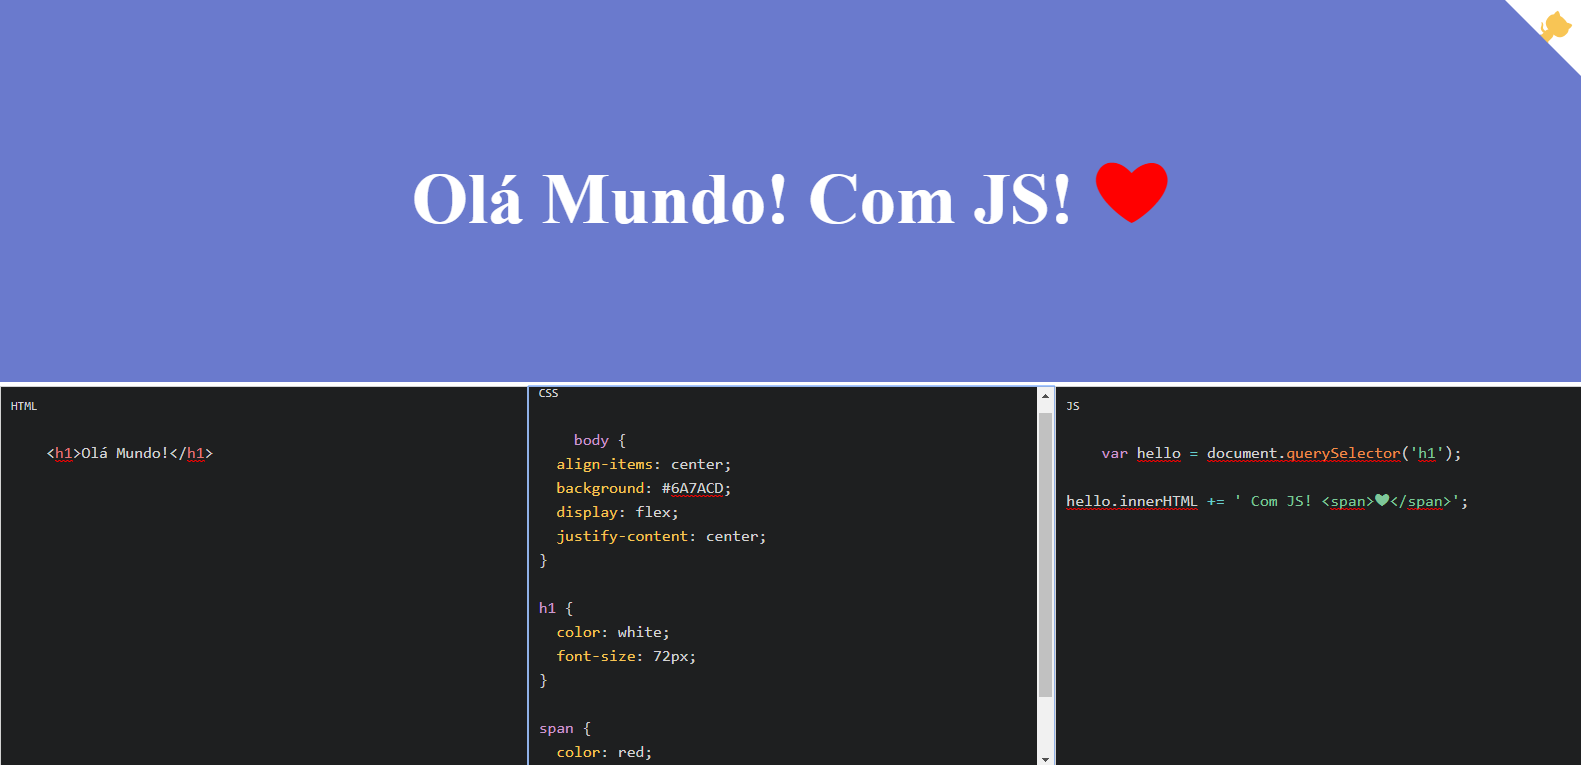
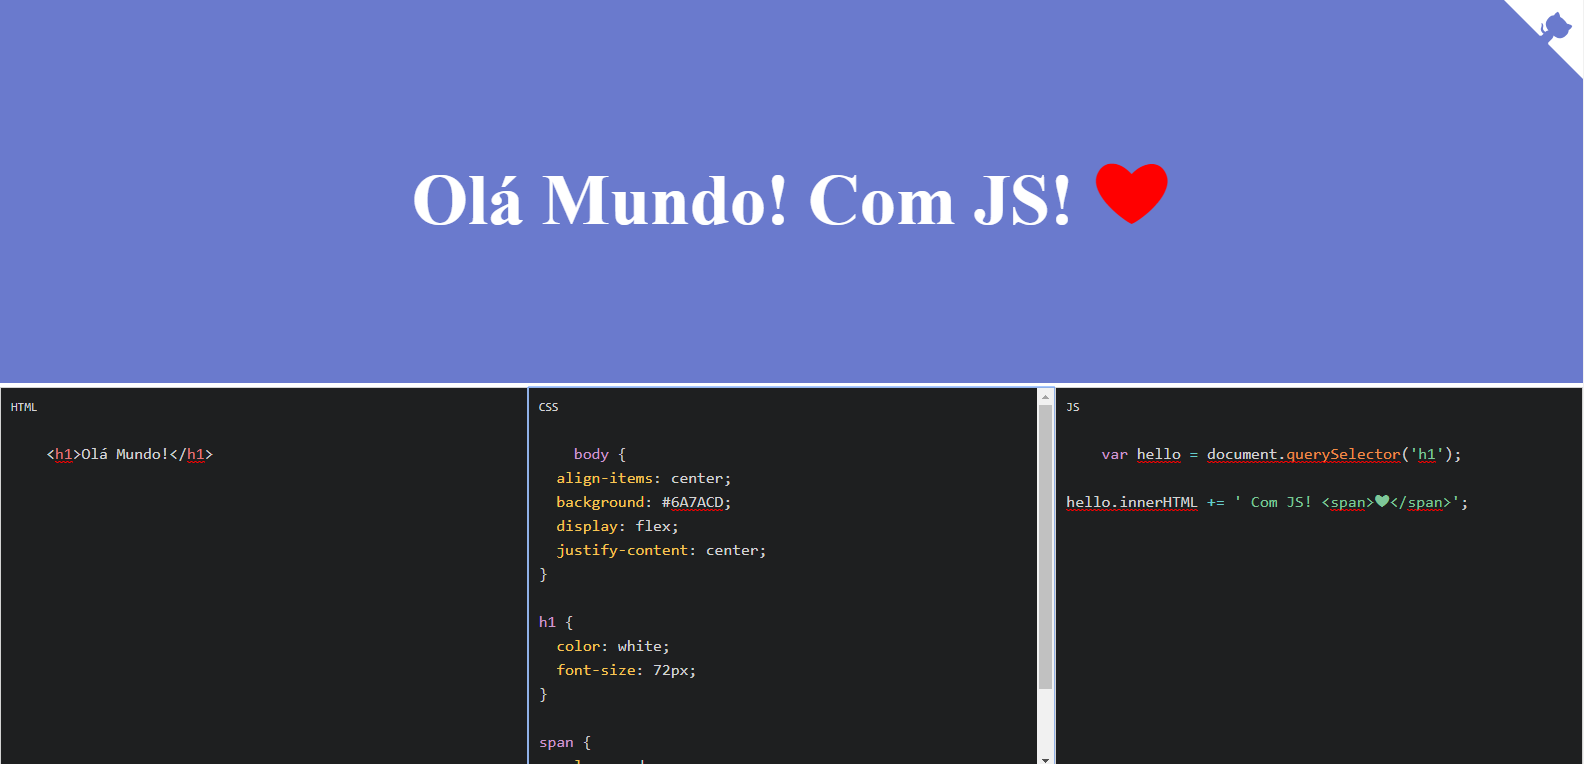
demonstracao

diff --git a/index.html b/index.html
@@ -11,7 +11,7 @@
   <link rel="stylesheet" href="css/style.css">
 </head>
 <body>
-  <a href="https://github.com/osantosdesign/live-editor" class="github-corner" aria-label="View source on Github"><svg width="80" height="80" viewBox="0 0 250 250" style="fill:#fff; color:#f8c555; position: absolute; top: 0; border: 0; right: 0;" aria-hidden="true"><path d="M0,0 L115,115 L130,115 L142,142 L250,250 L250,0 Z"></path><path d="M128.3,109.0 C113.8,99.7 119.0,89.6 119.0,89.6 C122.0,82.7 120.5,78.6 120.5,78.6 C119.2,72.0 123.4,76.3 123.4,76.3 C127.3,80.9 125.5,87.3 125.5,87.3 C122.9,97.6 130.6,101.9 134.4,103.2" fill="currentColor" style="transform-origin: 130px 106px;" class="octo-arm"></path><path d="M115.0,115.0 C114.9,115.1 118.7,116.5 119.8,115.4 L133.7,101.6 C136.9,99.2 139.9,98.4 142.2,98.6 C133.8,88.0 127.5,74.4 143.8,58.0 C148.5,53.4 154.0,51.2 159.7,51.0 C160.3,49.4 163.2,43.6 171.4,40.1 C171.4,40.1 176.1,42.5 178.8,56.2 C183.1,58.6 187.2,61.8 190.9,65.4 C194.5,69.0 197.7,73.2 200.1,77.6 C213.8,80.2 216.3,84.9 216.3,84.9 C212.7,93.1 206.9,96.0 205.4,96.6 C205.1,102.4 203.0,107.8 198.3,112.5 C181.9,128.9 168.3,122.5 157.7,114.1 C157.9,116.9 156.7,120.9 152.7,124.9 L141.0,136.5 C139.8,137.7 141.6,141.9 141.8,141.8 Z" fill="currentColor" class="octo-body"></path></svg></a><style>.github-corner:hover .octo-arm{animation:octocat-wave 560ms ease-in-out}@keyframes octocat-wave{0%,100%{transform:rotate(0)}20%,60%{transform:rotate(-25deg)}40%,80%{transform:rotate(10deg)}}@media (max-width:500px){.github-corner:hover .octo-arm{animation:none}.github-corner .octo-arm{animation:octocat-wave 560ms ease-in-out}}</style>
+  <a href="https://github.com/osantosdesign/live-editor" class="github-corner" aria-label="View source on Github"><svg width="80" height="80" viewBox="0 0 250 250" style="fill:#fff; color:#6A7ACD; position: absolute; top: 0; border: 0; right: 0;" aria-hidden="true"><path d="M0,0 L115,115 L130,115 L142,142 L250,250 L250,0 Z"></path><path d="M128.3,109.0 C113.8,99.7 119.0,89.6 119.0,89.6 C122.0,82.7 120.5,78.6 120.5,78.6 C119.2,72.0 123.4,76.3 123.4,76.3 C127.3,80.9 125.5,87.3 125.5,87.3 C122.9,97.6 130.6,101.9 134.4,103.2" fill="currentColor" style="transform-origin: 130px 106px;" class="octo-arm"></path><path d="M115.0,115.0 C114.9,115.1 118.7,116.5 119.8,115.4 L133.7,101.6 C136.9,99.2 139.9,98.4 142.2,98.6 C133.8,88.0 127.5,74.4 143.8,58.0 C148.5,53.4 154.0,51.2 159.7,51.0 C160.3,49.4 163.2,43.6 171.4,40.1 C171.4,40.1 176.1,42.5 178.8,56.2 C183.1,58.6 187.2,61.8 190.9,65.4 C194.5,69.0 197.7,73.2 200.1,77.6 C213.8,80.2 216.3,84.9 216.3,84.9 C212.7,93.1 206.9,96.0 205.4,96.6 C205.1,102.4 203.0,107.8 198.3,112.5 C181.9,128.9 168.3,122.5 157.7,114.1 C157.9,116.9 156.7,120.9 152.7,124.9 L141.0,136.5 C139.8,137.7 141.6,141.9 141.8,141.8 Z" fill="currentColor" class="octo-body"></path></svg></a><style>.github-corner:hover .octo-arm{animation:octocat-wave 560ms ease-in-out}@keyframes octocat-wave{0%,100%{transform:rotate(0)}20%,60%{transform:rotate(-25deg)}40%,80%{transform:rotate(10deg)}}@media (max-width:500px){.github-corner:hover .octo-arm{animation:none}.github-corner .octo-arm{animation:octocat-wave 560ms ease-in-out}}</style>
 
   <!-- Preview of the code -->
   <iframe id="preview"></iframe>
